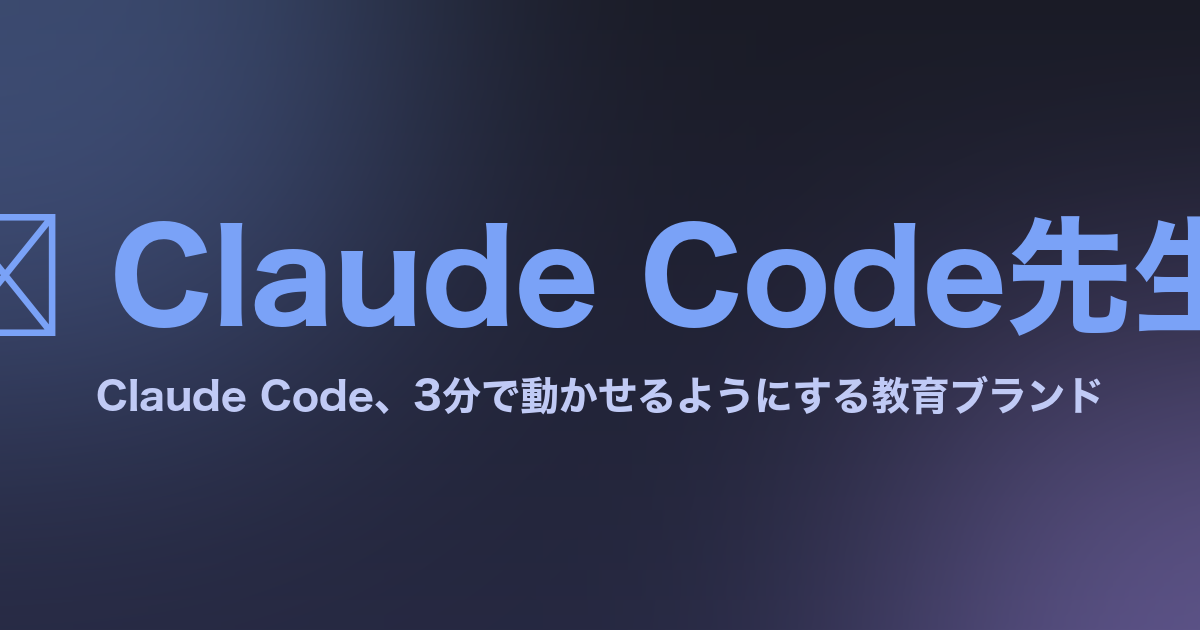
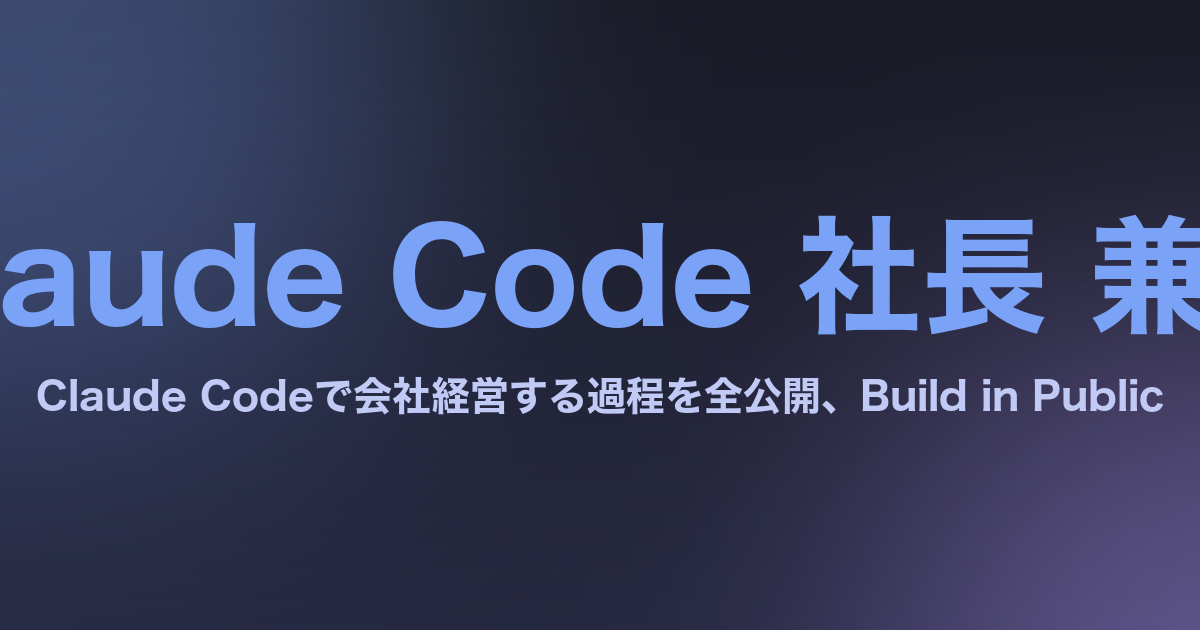
Rebrand: Claude Code先生 -> Claude Code 社長 兼 先生 (経営者+教育者の両軸)

Changed region(s): [[0.0, 0.3317, 1.0, 0.5429], [0.0308, 0.6032, 0.9867, 0.6635]]

diff --git a/index.html b/index.html
@@ -3,10 +3,10 @@
 <head>
 <meta charset="UTF-8" />
 <meta name="viewport" content="width=device-width, initial-scale=1.0" />
-<title>Claude Code先生 — 初心者でも今日から動かせる、AI×ターミナルの教科書</title>
-<meta name="description" content="Claude Code（AnthropicのAIコーディングエージェント）を初心者・個人開発者・自動化したい非エンジニア向けに教えるブランド。毎日Tips配信、無料講座、実装事例を公開。" />
-<meta property="og:title" content="Claude Code先生" />
-<meta property="og:description" content="Claude Codeを初心者でも今日から動かせるようにする教育ブランド。X / Instagram / Facebook / note で毎日配信。" />
+<title>Claude Code 社長 兼 先生 — 経営しながら教える、Build in Public</title>
+<meta name="description" content="Claude Codeで仮想カンパニーを経営する過程を全公開する Build in Public ブランド。8人のサブエージェントで構成されたチームと共に、3000万/年事業を構築中。" />
+<meta property="og:title" content="Claude Code 社長 兼 先生" />
+<meta property="og:description" content="Claude Codeで会社経営する過程を全公開。経営しながら教える、Build in Public ブランド。" />
 <meta property="og:type" content="website" />
 <meta property="og:url" content="https://ryoseiimai.github.io/claude-code-sensei/" />
 <meta property="og:image" content="https://ryoseiimai.github.io/claude-code-sensei/assets/og-image-1200x630.png" />
@@ -22,7 +22,7 @@
 
 <header class="site-header">
   <div class="container">
-    <a href="./" class="site-logo">🎓 Claude Code先生</a>
+    <a href="./" class="site-logo">💼 Claude Code 社長 兼 先生</a>
     <nav class="site-nav">
       <a href="#about">About</a>
       <a href="#topics">学べること</a>
@@ -36,8 +36,8 @@
 
 <section class="hero">
   <div class="container">
-    <h1>Claude Code、<br>難しそうで触ってない人へ。</h1>
-    <p class="lead">大丈夫。3分で動かせるようにする。<br>初心者・個人開発者・非エンジニアのための教育ブランド。</p>
+    <h1>Claude Codeで、<br>会社を経営する過程を全公開。</h1>
+    <p class="lead">8人のサブエージェントを率いて月3000万/年を目指す経営者の Build in Public。<br>同時に「Claude Code 触ったことない人」を3分で動かせるようにする教育者でもあります。</p>
     <div class="cta-row">
       <a class="btn btn-primary" href="https://note.com/ryoseiworld" target="_blank" rel="noopener">無料講座を読む（note）</a>
       <a class="btn btn-secondary" href="https://x.com/claude_code_jp" target="_blank" rel="noopener">毎日Tipsを見る（X）</a>
@@ -49,11 +49,14 @@
   <div class="container">
     <h2>About</h2>
     <p style="color:var(--text-dim);font-size:1.05em;text-align:center;max-width:680px;margin:0 auto 24px;">
-      29歳、フリーランス。Claude Codeを相棒に、SNS全自動運用システム・note自動投稿パイプライン・AIコンサル業務まで全部1人で作りました。
+      29歳、フリーランス。Claude Code 株式会社（仮想）の社長です。
+    </p>
+    <p style="color:var(--text-dim);text-align:center;max-width:680px;margin:0 auto 24px;">
+      11部署 / 8人のサブエージェントを率いて、3事業（教育コンテンツ / コンサル / 自動化システム）で月250万 → 年商3000万を目指しています。<br><br>
+      経営の全過程を公開し、同じく Claude Code で何かを始めたい人に「実例」として見てもらうのがこのサイトの目的です。
     </p>
     <p style="color:var(--text-dim);text-align:center;max-width:680px;margin:0 auto;">
-      このサイトは「Claude Code、使いたいけど触れない」初心者向けの教育コンテンツ配信ハブ。<br>
-      X / Instagram / Facebook / note で毎日ポスト、深い解説は note の連載で。
+      <a href="live/" style="color:var(--accent)">🔴 構築の実況中継はこちら</a>
     </p>
   </div>
 </section>

diff --git a/assets/generate_brand_assets.py b/assets/generate_brand_assets.py
@@ -105,11 +105,11 @@ def make_square_logo(out: Path, size: int = 1080):
 
     # サブテキスト
     sub_font = _load_font(FONT_BOLD_CANDIDATES, size // 18)
-    _draw_centered_text(draw, "Claude Code先生", sub_font, size // 2, size // 2 + size // 4, fill=TEXT)
+    _draw_centered_text(draw, "Claude Code 社長 兼 先生", sub_font, size // 2, size // 2 + size // 4, fill=TEXT)
 
     # 装飾: 下部にAIタグ
     accent_font = _load_font(FONT_MONO_CANDIDATES, size // 28)
-    _draw_centered_text(draw, "AI × ターミナル", accent_font,
+    _draw_centered_text(draw, "経営しながら教える", accent_font,
                        size // 2, size // 2 + size // 3, fill=TEXT_FAINT)
 
     img.save(out, "PNG", optimize=True)
@@ -124,12 +124,12 @@ def make_facebook_cover(out: Path, w: int = 1640, h: int = 624):
 
     # 左寄せロゴ + テキスト
     logo_font = _load_font(FONT_BOLD_CANDIDATES, h // 3)
-    title_text = "🎓 Claude Code先生"
+    title_text = "💼 Claude Code 社長 兼 先生"
     bbox = draw.textbbox((0, 0), title_text, font=logo_font)
     draw.text((80, h // 4), title_text, fill=ACCENT, font=logo_font)
 
     sub_font = _load_font(FONT_BOLD_CANDIDATES, h // 12)
-    sub_text = "初心者でも今日から動かせる、AI×ターミナルの教科書"
+    sub_text = "経営しながら教える、Claude Codeで何でも作る人"
     draw.text((80, h // 4 + (bbox[3] - bbox[1]) + 30), sub_text, fill=TEXT, font=sub_font)
 
     url_font = _load_font(FONT_MONO_CANDIDATES, h // 18)
@@ -146,11 +146,11 @@ def make_x_banner(out: Path, w: int = 1500, h: int = 500):
     draw = ImageDraw.Draw(img)
 
     title_font = _load_font(FONT_BOLD_CANDIDATES, h // 4)
-    draw.text((60, h // 6), "🎓 Claude Code先生", fill=ACCENT, font=title_font)
+    draw.text((60, h // 6), "💼 Claude Code 社長 兼 先生", fill=ACCENT, font=title_font)
 
     sub_font = _load_font(FONT_BOLD_CANDIDATES, h // 12)
-    draw.text((60, h // 6 + h // 4 + 20), "Claude Code、難しそうで触ってない人へ。", fill=TEXT, font=sub_font)
-    draw.text((60, h // 6 + h // 4 + 70), "3分で動かせるようにする。", fill=TEXT_DIM, font=sub_font)
+    draw.text((60, h // 6 + h // 4 + 20), "Claude Codeで会社経営する過程を全公開。", fill=TEXT, font=sub_font)
+    draw.text((60, h // 6 + h // 4 + 70), "Build in Public で経営しながら教える。", fill=TEXT_DIM, font=sub_font)
 
     schedule_font = _load_font(FONT_MONO_CANDIDATES, h // 18)
     draw.text((60, h - 60),
@@ -169,15 +169,15 @@ def make_story_image(out: Path, w: int = 1080, h: int = 1920):
 
     # 上部に絵文字
     em_font = _load_font(FONT_BOLD_CANDIDATES, w // 4)
-    _draw_centered_text(draw, "🎓", em_font, w // 2, h // 4, fill=ACCENT)
+    _draw_centered_text(draw, "💼", em_font, w // 2, h // 4, fill=ACCENT)
 
     # 中央タイトル
     title_font = _load_font(FONT_BOLD_CANDIDATES, w // 12)
-    _draw_centered_text(draw, "Claude Code先生", title_font, w // 2, h // 2 - 80, fill=ACCENT)
+    _draw_centered_text(draw, "Claude Code 社長 兼 先生", title_font, w // 2, h // 2 - 80, fill=ACCENT)
 
     # サブ
     sub_font = _load_font(FONT_BOLD_CANDIDATES, w // 24)
-    _draw_centered_text(draw, "初心者でも今日から動かせる", sub_font,
+    _draw_centered_text(draw, "経営しながら教える", sub_font,
                        w // 2, h // 2 + 20, fill=TEXT)
 
     # 下部CTA
@@ -196,10 +196,10 @@ def make_note_header(out: Path, w: int = 1280, h: int = 680):
     draw = ImageDraw.Draw(img)
 
     title_font = _load_font(FONT_BOLD_CANDIDATES, h // 4)
-    _draw_centered_text(draw, "🎓 Claude Code先生", title_font, w // 2, h // 2 - 60, fill=ACCENT)
+    _draw_centered_text(draw, "💼 Claude Code 社長 兼 先生", title_font, w // 2, h // 2 - 60, fill=ACCENT)
 
     sub_font = _load_font(FONT_BOLD_CANDIDATES, h // 14)
-    _draw_centered_text(draw, "初心者でも今日から動かせる、AI×ターミナルの教科書",
+    _draw_centered_text(draw, "Claude Codeで会社経営する過程を全公開",
                        sub_font, w // 2, h // 2 + 80, fill=TEXT)
 
     img.save(out, "PNG", optimize=True)
@@ -213,10 +213,10 @@ def make_og_image(out: Path, w: int = 1200, h: int = 630):
     draw = ImageDraw.Draw(img)
 
     title_font = _load_font(FONT_BOLD_CANDIDATES, h // 5)
-    _draw_centered_text(draw, "🎓 Claude Code先生", title_font, w // 2, h // 2 - 40, fill=ACCENT)
+    _draw_centered_text(draw, "💼 Claude Code 社長 兼 先生", title_font, w // 2, h // 2 - 40, fill=ACCENT)
 
     sub_font = _load_font(FONT_BOLD_CANDIDATES, h // 16)
-    _draw_centered_text(draw, "Claude Code、3分で動かせるようにする教育ブランド",
+    _draw_centered_text(draw, "Claude Codeで会社経営する過程を全公開、Build in Public",
                        sub_font, w // 2, h // 2 + 80, fill=TEXT)
 
     img.save(out, "PNG", optimize=True)
